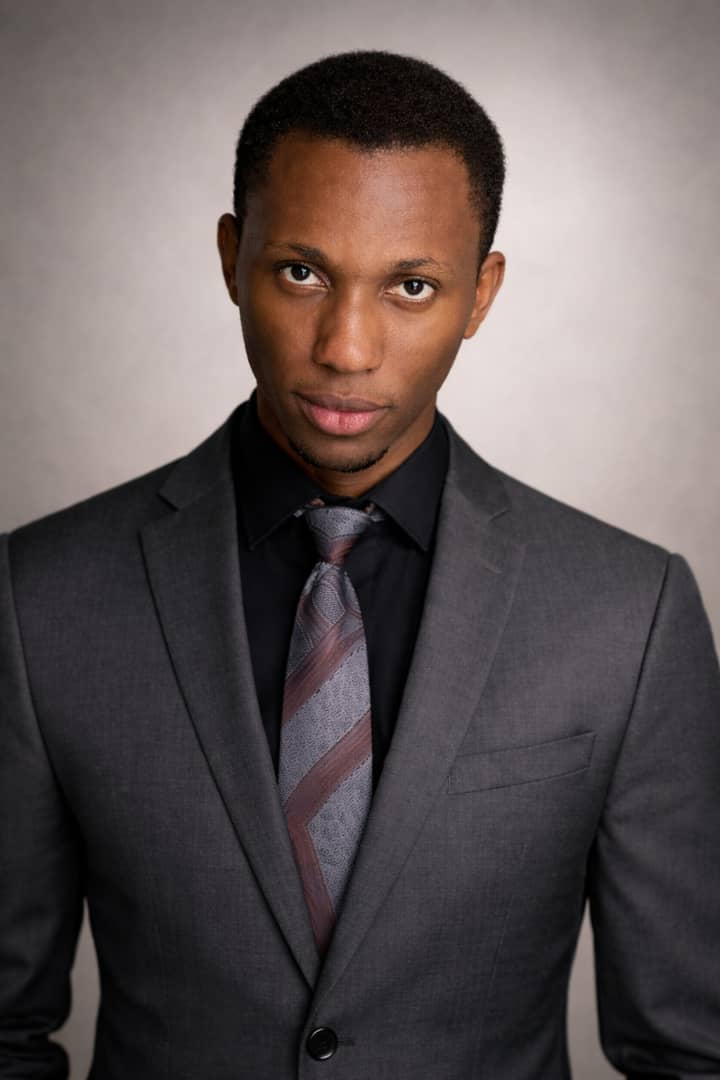
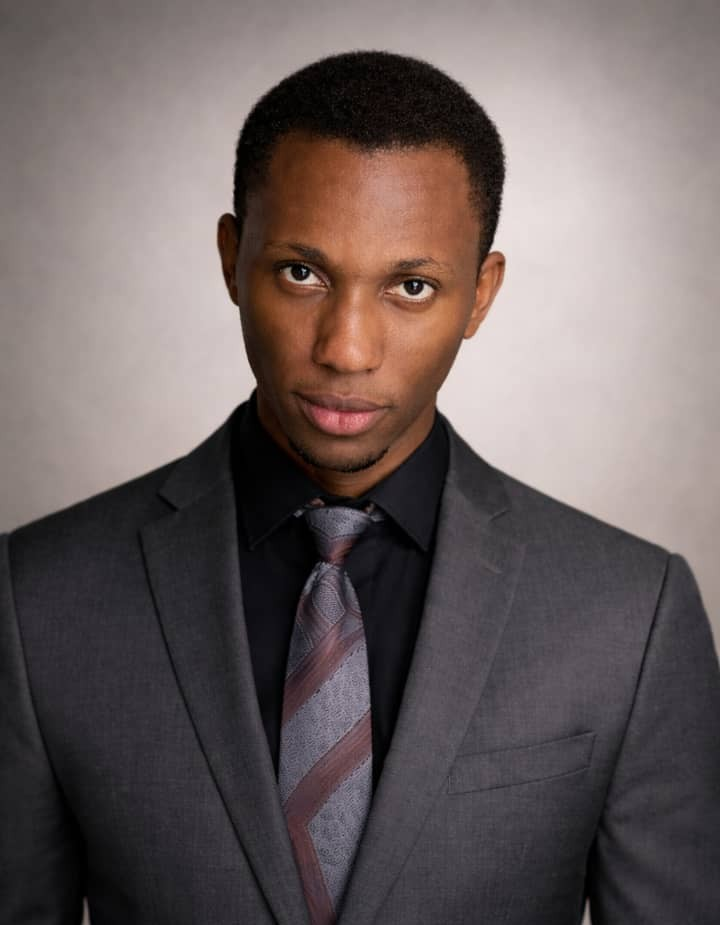
update: new member

diff --git a/src/components/Team.jsx b/src/components/Team.jsx
@@ -189,6 +189,48 @@ const Team = () => {
           </div>
         </section>
 
+        {/* ===== MEMBER BLOCK 5 ===== */}
+        <section>
+          <div className="max-w-[1600px] mx-auto px-6 md:px-12 lg:px-20 
+                          grid grid-cols-1 lg:grid-cols-12 gap-16 items-center">
+
+            <motion.div
+              className="lg:col-span-5 lg:order-2"
+              initial={{ clipPath: "inset(100% 0% 0% 0%)" }}
+              whileInView={{ clipPath: "inset(0% 0% 0% 0%)" }}
+              transition={{ duration: 0.4, ease: "easeOut" }}
+            >
+              <div className="relative overflow-hidden">
+                <img
+                  src="/images/web-manager.jpeg"
+                  className="w-full h-[500px] lg:h-[600px] object-cover object-bottom"
+                  alt="Ini Williams Brown"
+                />
+                <div className="absolute inset-0 bg-orange-500/10 mix-blend-multiply" />
+              </div>
+            </motion.div>
+
+            <div className="lg:col-span-7 lg:order-1 text-black">
+              <h2 className="text-3xl md:text-5xl lg:text-6xl font-black mb-6">
+                Ini Williams Brown
+              </h2>
+
+              <p className="text-lg md:text-xl lg:text-2xl text-gray-600 
+                            font-medium border-l-4 border-orange-500 pl-6 max-w-xl">
+                Social Media Strategist and Website Manager
+              </p>
+
+              <Link to="/webmanager">
+                <button className="mt-8 px-10 py-4 bg-orange-500 text-white 
+                                   font-black uppercase tracking-widest text-xs 
+                                   hover:bg-orange-600 transition-colors duration-300">
+                  Read Full Bio
+                </button>
+              </Link>
+            </div>
+          </div>
+        </section>
+
       </div>
     </div>
   );
